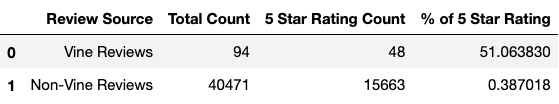
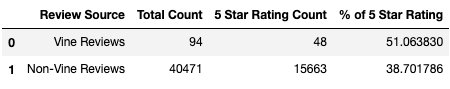
Adding last analysis edits

diff --git a/README.md b/README.md
@@ -1,1 +1,43 @@
-# Amazon_Vine_Analysis
+# Amazon Vine Analysis
+
+## Overview of Analysis
+The goal of this project is to determine if there is a bias from paid Amazon Vine member reviews of video games.  The Amazon Vine Programis where companies can pay Amazon for reviews of there products.  They send the prodeuct to a vine member and they have to write a review.  Initially the data was loaded in and filtered on the total amount of votes being higher then 20 for each of the reviews to ensure the reviews.  Then it was filtered on having more then 50% of the reviews be voted as helpful to ensure the reviews had some effort put into them and were actually useful. Then statistics were calculated on filtered dataframes, one with paid member and one unpaid, to gauge whether high ratings were more common coming from paid Vine members.
+
+# Results
+
+<p align="center"> 
+    Initial Data-frame 
+  <img alt = 'Initial Data-frame' src="images/initial_df.png" width = 70% />
+</p>
+
+<p align="center"> 
+    Data-frame Filtered for Reviews Containing 50% Helpful Votes
+  <img alt = 'Data-frame Filtered for Reviews Containing 50% Helpful Votes' src="images/help_df.png" width = 70% />
+</p>
+
+* As you can see above, the initial data-frame included 1,785,997 reviews while the filtered data-frame the only includes the most helpful votes is only 40,565.  The filters may have dramatically decreased the sample size but the remaining reviews are the ones that people put the most effort into and are the most useful.
+
+<p align="center"> 
+    Data-frame Filtered for Paid Vine Member Reviews
+  <img alt = 'Data-frame Filtered for Paid Vine Member Reviews' src="images/paid_df.png" width = 70% />
+</p>
+
+* There are only 94 reviews remaining that are from paid Amazon Vine Members.
+
+<p align="center"> 
+    Data-frame Filtered for Non-Vine Member Reviews
+  <img alt = 'Data-frame Filtered for Non-Vine Member Reviews' src="images/unpaid_df.png" width = 70% />
+</p>
+
+* There are 40,471 reviews remaining that are from non-Vine members.  Unfortunately the sample size for paid Vine members is extremely small not only in general but extremely small compared to non-Vine member reviews.  Typically in this case I would alter the parameters slightly to try to see if the sample sizes could be more similar but it is also very interesting that such few of the paid reviews are recognized as helpful.  I will touch more on this in my conclusion.
+
+<p align="center"> 
+    Basic Stats of 5-star Reviews for Each Data-frame
+  <img alt = 'Basic Stats of 5-star Reviews for Each Data-frame' src="images/stats_df.png" width = 70% />
+</p>
+
+* There were 48 5 star Vine Reviews and 15,663 5 star non-Vine reviews.
+* 51% of the Vine reviews were 5 star ratings and 38% of the non-Vine Reviews were 5 star ratings.
+
+# Summary
+Based on the percentages alone, it could be assumed there is a positivity bias for Vine member reviews; however, the sample sizes for the 2 groups are so disimilar that it may be inaccurate to say there is a positivity bias. I would be more interested in comparing the helpful reviews for either group.  It would be best to take the compare the total reviews for each group to the filtered hepful reviews. I would more accurately be able to say that maybe the vine reviews are less helpful because the people are paid to get free items and write a review about them, whether the reviews are well done or not.
